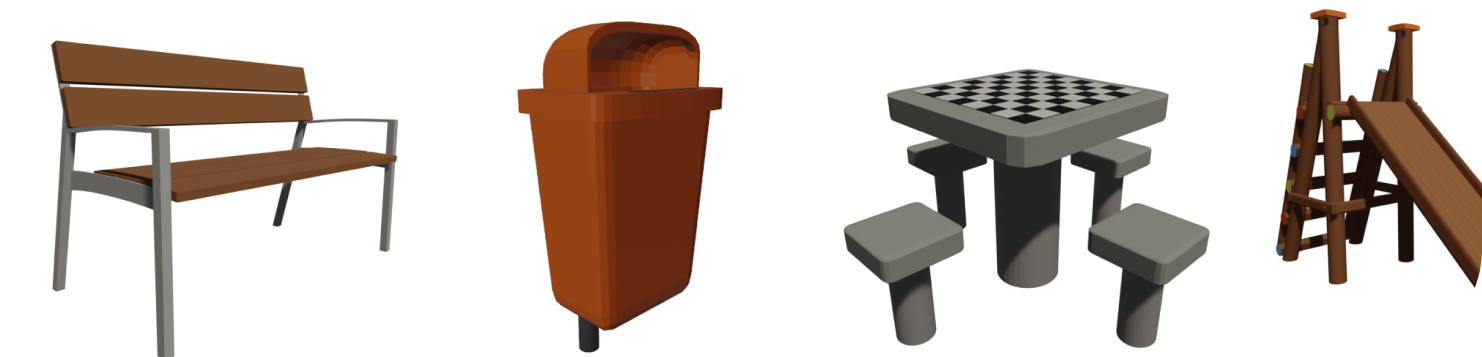
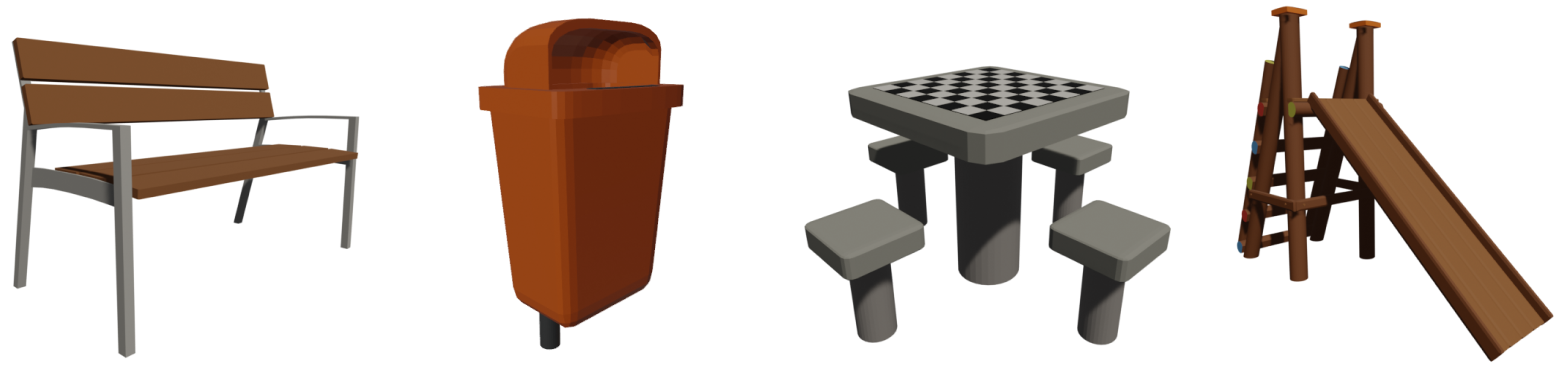
mobile

diff --git a/css/arquivos.css b/css/arquivos.css
@@ -52,32 +52,31 @@
 
 
 
+/* ----------- Mobile ----------- */
+@media screen and (max-width: 780px) {
 
-
-
-
-
-
-
-
-
---------------------------------
-
-.galeria{
-    display: grid;
-    grid-template-columns: repeat(auto-fit, minmax(300px, 1fr));
-    grid-gap: 20px;
+.mobilia{
+    flex-direction: column;
 }
 
-.galeriaImg{
-    max-width: 100%;
-    border-radius: 30px;
-    position: relative;
-    transition: transform 250ms;
-    cursor: pointer;
-} 
+.mobilia img{
+    border-radius: 42px;
+    width: 160px;
+}
 
-.galeriaImg:hover{
-    transform: translateY(-2px);
-    box-shadow: 0px 3px 5px rgba(128, 128, 128, 0.5);
+.mobilia h4{
+    font-size: 36px;
+    margin-top: 16px;
+}
+
+.mobilia div{
+    margin: auto auto auto 0;
+}
+
+.mobilia div p{
+    font-size: 18px;
+}
+
+
+
 }

diff --git a/css/index.css b/css/index.css
@@ -416,7 +416,8 @@ header{
 .extra-content .banner img{
     height: auto;
     max-height: max-content;
-    margin: auto 0 auto auto;
+    max-width: 50%;
+    margin: auto 32px auto auto;
 }
 
 .extra-content .banner > div{
@@ -799,7 +800,9 @@ footer > div{
 
     .extra-content .banner img{
         width: 90%;
+        margin: auto;
         margin-top: 24px;
+        max-width: 70%;
     }
 
     .extra-content .banner > div{